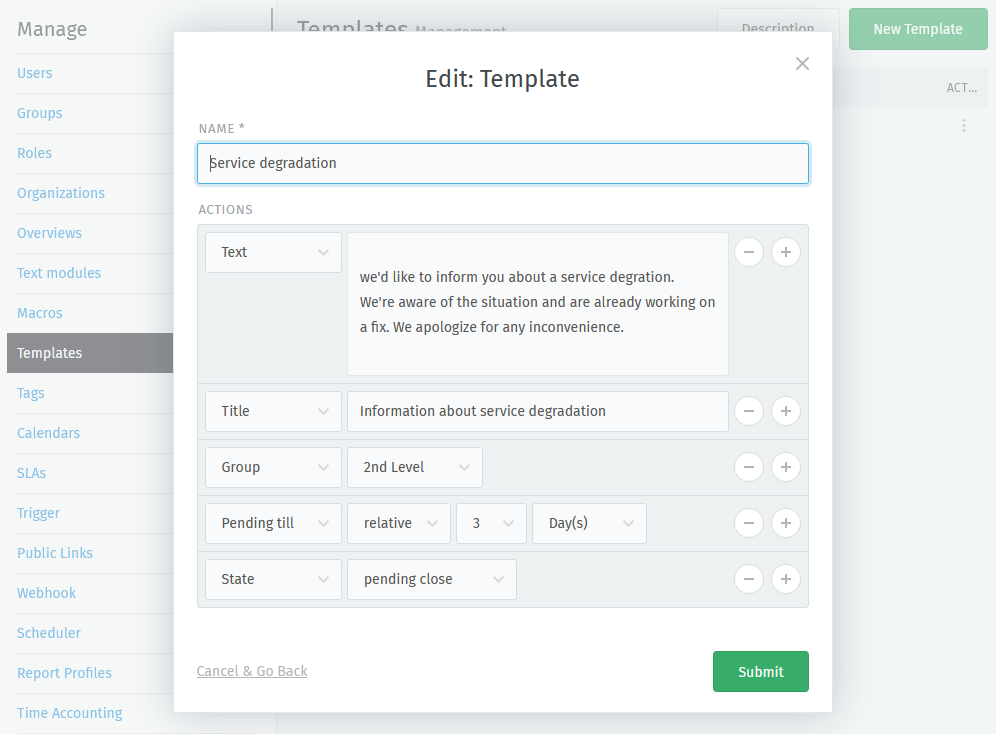
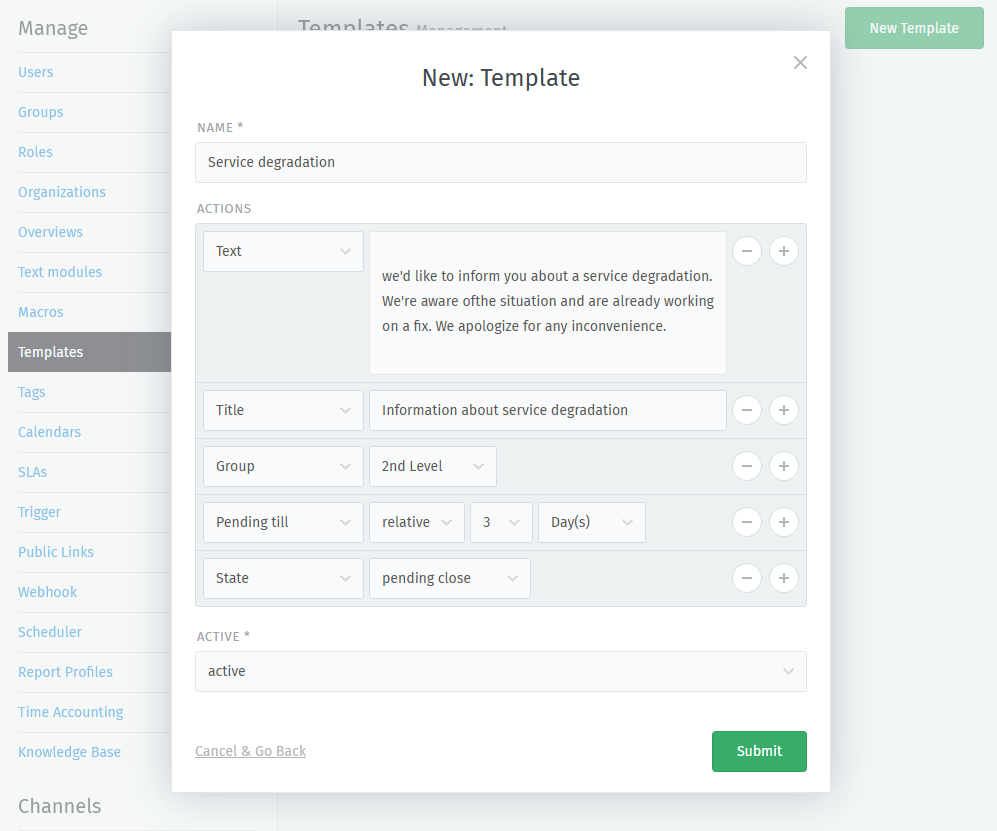
Add missing active flag to ticket templates

diff --git a/manage/templates.rst b/manage/templates.rst
@@ -37,6 +37,11 @@ Managing templates
       This allows you to create granular templates with the information you
       need.
 
+   Active
+      Set any currently active ticket template to ``inactive`` if you don't
+      need it momentarily. This allows you to keep the template for e.g.
+      seasonal reasons without providing it as an option to your agents.
+
    .. figure:: /images/manage/templates/adding-new-template.png
       :alt: Screenshot showing the template configuration
 
